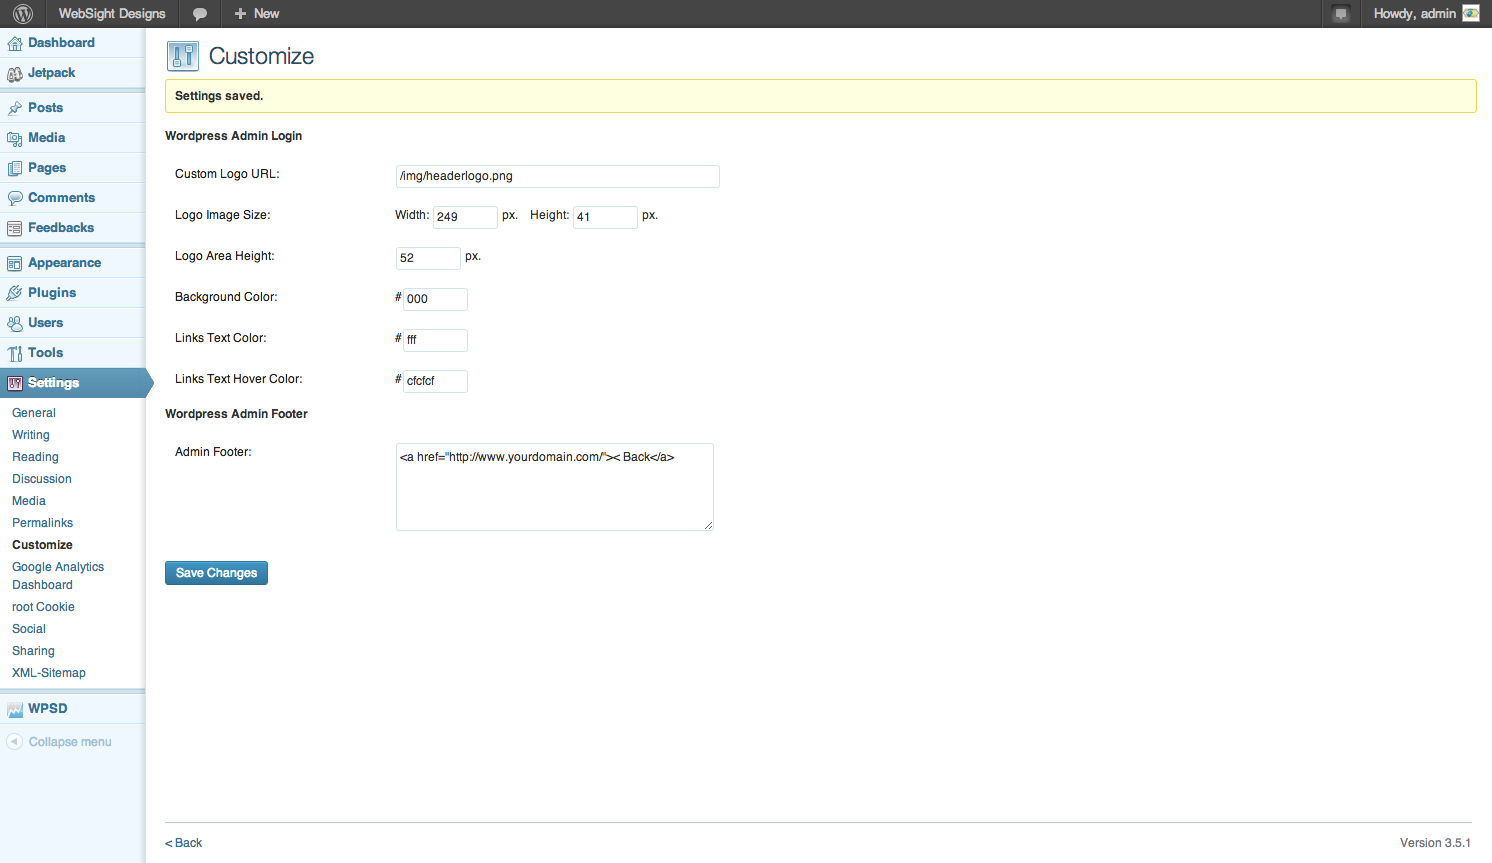
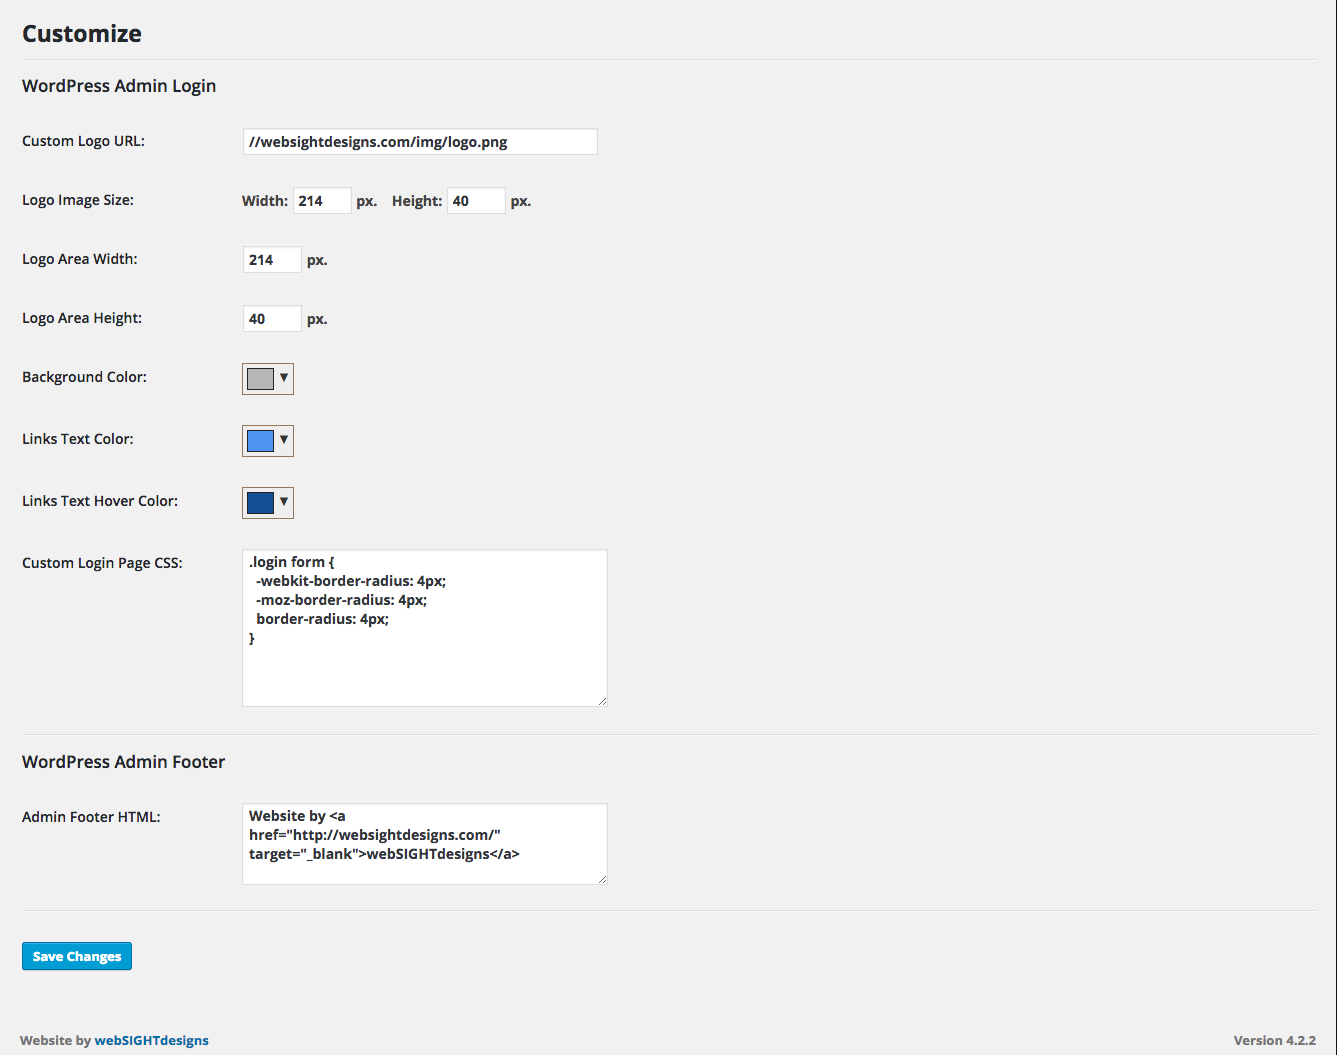
version 0.5 adds color pickers
git-svn-id: https://plugins.svn.wordpress.org/wp-customize/trunk@1161440 b8457f37-d9ea-0310-8a92-e5e31aec5664

diff --git a/script.js b/script.js
@@ -1,6 +1,25 @@
 jQuery(document).ready(function($){
+
 	// fade away update messages
 	setTimeout(function(){
 		$('.fade').fadeOut('slow');
 	}, 5000);
+
+    // spectrum color picker
+    $("#wsd_admin_bgcolor, #wsd_admin_linkcolor, #wsd_admin_linkhovercolor").spectrum({
+        showPalette: true,
+        showInput: true,
+        preferredFormat: "hex3",
+        palette: [
+            ["#000","#444","#666","#999","#ccc","#eee","#f3f3f3","#fff"],
+            ["#f00","#f90","#ff0","#0f0","#0ff","#00f","#90f","#f0f"],
+            ["#f4cccc","#fce5cd","#fff2cc","#d9ead3","#d0e0e3","#cfe2f3","#d9d2e9","#ead1dc"],
+            ["#ea9999","#f9cb9c","#ffe599","#b6d7a8","#a2c4c9","#9fc5e8","#b4a7d6","#d5a6bd"],
+            ["#e06666","#f6b26b","#ffd966","#93c47d","#76a5af","#6fa8dc","#8e7cc3","#c27ba0"],
+            ["#c00","#e69138","#f1c232","#6aa84f","#45818e","#3d85c6","#674ea7","#a64d79"],
+            ["#900","#b45f06","#bf9000","#38761d","#134f5c","#0b5394","#351c75","#741b47"],
+            ["#600","#783f04","#7f6000","#274e13","#0c343d","#073763","#20124d","#4c1130"]
+        ]
+    });
+
 });

diff --git a/wp-customize.php b/wp-customize.php
@@ -1,13 +1,13 @@
 <?php
 /**
  * @package WP_Customize
- * @version 0.4
+ * @version 0.5
  */
 /*
 Plugin Name: WP-Customize
 Description: This plugin allows you to customize the WordPress login page and set your own footer for the WordPress Admin.
 Author: WebSight Designs
-Version: 0.4
+Version: 0.5
 Author URI: http://websightdesigns.com/
 License: GPL2
 */
@@ -29,22 +29,21 @@ along with this program; if not, write to the Free Software
 Foundation, Inc., 51 Franklin St, Fifth Floor, Boston, MA  02110-1301  USA
 */
 
-// enqueue javascript
-function wsd_load_javascript() {
+// enqueue javascript for admin pages
+function wsd_admin_scripts() {
     wp_enqueue_script( 'jquery' );
-    wp_enqueue_script( 'wsd-customize-js', plugin_dir_url(__FILE__) . 'script.js', array( 'jquery' ), '1.0', true );
+    wp_enqueue_style( 'wsd-customize-spectrum', plugin_dir_url(__FILE__) . 'spectrum.css', null, '1.7.0' );
+    wp_enqueue_script( 'wsd-customize-spectrum-js', plugin_dir_url(__FILE__) . 'spectrum.js', array( 'jquery' ), '1.7.0', true );
+    wp_enqueue_script( 'wsd-customize-js', plugin_dir_url(__FILE__) . 'script.js', array( 'wsd-customize-spectrum-js' ), '0.4', true );
 }
-add_action( 'admin_enqueue_scripts', 'wsd_load_javascript' );
-add_action( 'login_enqueue_scripts', 'wsd_load_javascript' );
+add_action( 'admin_enqueue_scripts', 'wsd_admin_scripts' );
 
-// hook for adding admin menus
-add_action('admin_menu', 'wsd_add_pages');
-
-// action function for above hook
+// add a new admin menu item
 function wsd_add_pages() {
 	// Add a new submenu under Settings:
 	add_options_page(__('Customize','wsd-menu'), __('Customize','wsd-menu'), 'manage_options', 'settings', 'wsd_settings_page');
 }
+add_action('admin_menu', 'wsd_add_pages');
 
 // wsd_settings_page() displays the page content for the Test settings submenu
 function wsd_settings_page() {
@@ -90,7 +89,7 @@ function wsd_settings_page() {
 				<th scope="row"><?php _e("Custom Logo URL:", 'wsd-menu'); ?> </th>
 				<td>
 				<input type="text" size="42" name="wsd_admin_logo" value="<?php
-					echo ($_POST['wsd_admin_logo'] ? $_POST['wsd_admin_logo'] : html_entity_decode(get_option('wsd_admin_logo', htmlentities(get_option('wsd_admin_logo')))) );
+					echo (isset( $_POST['wsd_admin_logo'] ) && $_POST['wsd_admin_logo'] ? $_POST['wsd_admin_logo'] : html_entity_decode(get_option('wsd_admin_logo', htmlentities(get_option('wsd_admin_logo')))) );
 				?>">
 				</td>
 			</tr>
@@ -98,9 +97,9 @@ function wsd_settings_page() {
 				<th scope="row"><?php _e("Logo Image Size:", 'wsd-menu'); ?> </th>
 				<td>
 				Width: <input type="text" size="5" name="wsd_admin_logo_width" value="<?php
-					echo ($_POST['wsd_admin_logo_width'] ? $_POST['wsd_admin_logo_width'] : html_entity_decode(get_option('wsd_admin_logo_width', htmlentities(get_option('wsd_admin_logo_width')))) );
+					echo (isset( $_POST['wsd_admin_logo_width'] ) && $_POST['wsd_admin_logo_width'] ? $_POST['wsd_admin_logo_width'] : html_entity_decode(get_option('wsd_admin_logo_width', htmlentities(get_option('wsd_admin_logo_width')))) );
 				?>"> px.&nbsp;&nbsp;&nbsp;&nbsp;Height: <input type="text" size="5" name="wsd_admin_logo_height" value="<?php
-					echo ($_POST['wsd_admin_logo_height'] ? $_POST['wsd_admin_logo_height'] : html_entity_decode(get_option('wsd_admin_logo_height', htmlentities(get_option('wsd_admin_logo_height')))) );
+					echo (isset( $_POST['wsd_admin_logo_height'] ) && $_POST['wsd_admin_logo_height'] ? $_POST['wsd_admin_logo_height'] : html_entity_decode(get_option('wsd_admin_logo_height', htmlentities(get_option('wsd_admin_logo_height')))) );
 				?>"> px.
 				</td>
 			</tr>
@@ -108,7 +107,7 @@ function wsd_settings_page() {
 				<th scope="row"><?php _e("Logo Area Width:", 'wsd-menu'); ?> </th>
 				<td>
 				<input type="text" size="5" name="wsd_admin_logo_area_width" value="<?php
-					echo ($_POST['wsd_admin_logo_area_width'] ? $_POST['wsd_admin_logo_area_width'] : html_entity_decode(get_option('wsd_admin_logo_area_width', htmlentities(get_option('wsd_admin_logo_area_width')))) );
+					echo (isset( $_POST['wsd_admin_logo_area_width'] ) && $_POST['wsd_admin_logo_area_width'] ? $_POST['wsd_admin_logo_area_width'] : html_entity_decode(get_option('wsd_admin_logo_area_width', htmlentities(get_option('wsd_admin_logo_area_width')))) );
 				?>"> px.
 				</td>
 			</tr>
@@ -116,31 +115,31 @@ function wsd_settings_page() {
 				<th scope="row"><?php _e("Logo Area Height:", 'wsd-menu'); ?> </th>
 				<td>
 				<input type="text" size="5" name="wsd_admin_logo_area_height" value="<?php
-					echo ($_POST['wsd_admin_logo_area_height'] ? $_POST['wsd_admin_logo_area_height'] : html_entity_decode(get_option('wsd_admin_logo_area_height', htmlentities(get_option('wsd_admin_logo_area_height')))) );
+					echo (isset( $_POST['wsd_admin_logo_area_height'] ) && $_POST['wsd_admin_logo_area_height'] ? $_POST['wsd_admin_logo_area_height'] : html_entity_decode(get_option('wsd_admin_logo_area_height', htmlentities(get_option('wsd_admin_logo_area_height')))) );
 				?>"> px.
 				</td>
 			</tr>
 			<tr valign="top">
 				<th scope="row"><?php _e("Background Color:", 'wsd-menu'); ?> </th>
 				<td>
-				#<input type="text" size="6" name="wsd_admin_bgcolor" value="<?php
-					echo ($_POST['wsd_admin_bgcolor'] ? $_POST['wsd_admin_bgcolor'] : html_entity_decode(get_option('wsd_admin_bgcolor', '000')) );
+				<input type="text" size="6" id="wsd_admin_bgcolor" name="wsd_admin_bgcolor" value="<?php
+					echo (isset( $_POST['wsd_admin_bgcolor'] ) && $_POST['wsd_admin_bgcolor'] ? $_POST['wsd_admin_bgcolor'] : html_entity_decode(get_option('wsd_admin_bgcolor', '000')) );
 				?>">
 				</td>
 			</tr>
 			<tr valign="top">
 				<th scope="row"><?php _e("Links Text Color:", 'wsd-menu'); ?> </th>
 				<td>
-				#<input type="text" size="6" name="wsd_admin_linkcolor" value="<?php
-					echo ($_POST['wsd_admin_linkcolor'] ? $_POST['wsd_admin_linkcolor'] : html_entity_decode(get_option('wsd_admin_linkcolor', 'fff')) );
+				<input type="text" size="6" id="wsd_admin_linkcolor" name="wsd_admin_linkcolor" value="<?php
+					echo (isset( $_POST['wsd_admin_linkcolor'] ) && $_POST['wsd_admin_linkcolor'] ? $_POST['wsd_admin_linkcolor'] : html_entity_decode(get_option('wsd_admin_linkcolor', 'fff')) );
 				?>">
 				</td>
 			</tr>
 			<tr valign="top">
 				<th scope="row"><?php _e("Links Text Hover Color:", 'wsd-menu'); ?> </th>
 				<td>
-				#<input type="text" size="6" name="wsd_admin_linkhovercolor" value="<?php
-					echo ($_POST['wsd_admin_linkhovercolor'] ? $_POST['wsd_admin_linkhovercolor'] : html_entity_decode(get_option('wsd_admin_linkhovercolor', 'cfcfcf')) );
+				<input type="text" size="6" id="wsd_admin_linkhovercolor" name="wsd_admin_linkhovercolor" value="<?php
+					echo (isset( $_POST['wsd_admin_linkhovercolor'] ) && $_POST['wsd_admin_linkhovercolor'] ? $_POST['wsd_admin_linkhovercolor'] : html_entity_decode(get_option('wsd_admin_linkhovercolor', 'cfcfcf')) );
 				?>">
 				</td>
 			</tr>
@@ -210,9 +209,9 @@ function wsd_custom_login_logo() {
 			height: ' . html_entity_decode(get_option('wsd_admin_logo_area_height')) . 'px !important;
 			width: ' . html_entity_decode(get_option('wsd_admin_logo_area_width')) . 'px !important;
 		}
-		body { background-color:#' . html_entity_decode(get_option('wsd_admin_bgcolor', '000')) . ' !important; }
-		#login #nav a, #login #backtoblog a { color: #' . html_entity_decode(get_option('wsd_admin_linkcolor', 'fff')) . ' !important; text-shadow: none !important; }
-		#login #nav a:hover, #login #backtoblog a:hover { color: #' . html_entity_decode(get_option('wsd_admin_linkhovercolor', 'cfcfcf')) . ' !important; text-shadow: none !important; }
+		body { background-color:' . html_entity_decode(get_option('wsd_admin_bgcolor', '000')) . ' !important; }
+		#login #nav a, #login #backtoblog a { color:' . html_entity_decode(get_option('wsd_admin_linkcolor', 'fff')) . ' !important; text-shadow: none !important; }
+		#login #nav a:hover, #login #backtoblog a:hover { color: ' . html_entity_decode(get_option('wsd_admin_linkhovercolor', 'cfcfcf')) . ' !important; text-shadow: none !important; }
 	</style>';
 }
 add_action('login_head', 'wsd_custom_login_logo');
@@ -239,9 +238,9 @@ add_filter('login_headerurl', 'wsd_custom_login_url');
  * Set a custom WordPress Admin login page header title
  */
 function wsd_login_header_title() {
-	return get_bloginfo(‘name’);
+	return get_bloginfo('name');
 }
-add_filter('login_headertitle','wsd_login_header_title');
+add_filter('login_headertitle', 'wsd_login_header_title');
 
 /**
  * Change default error message
